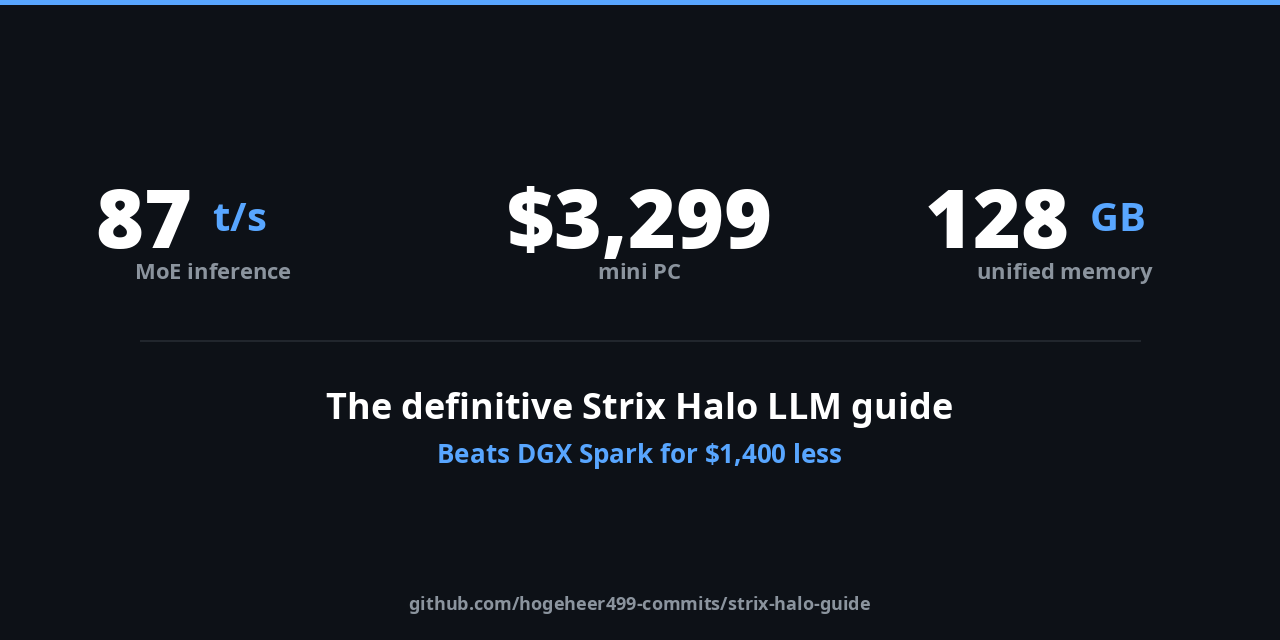
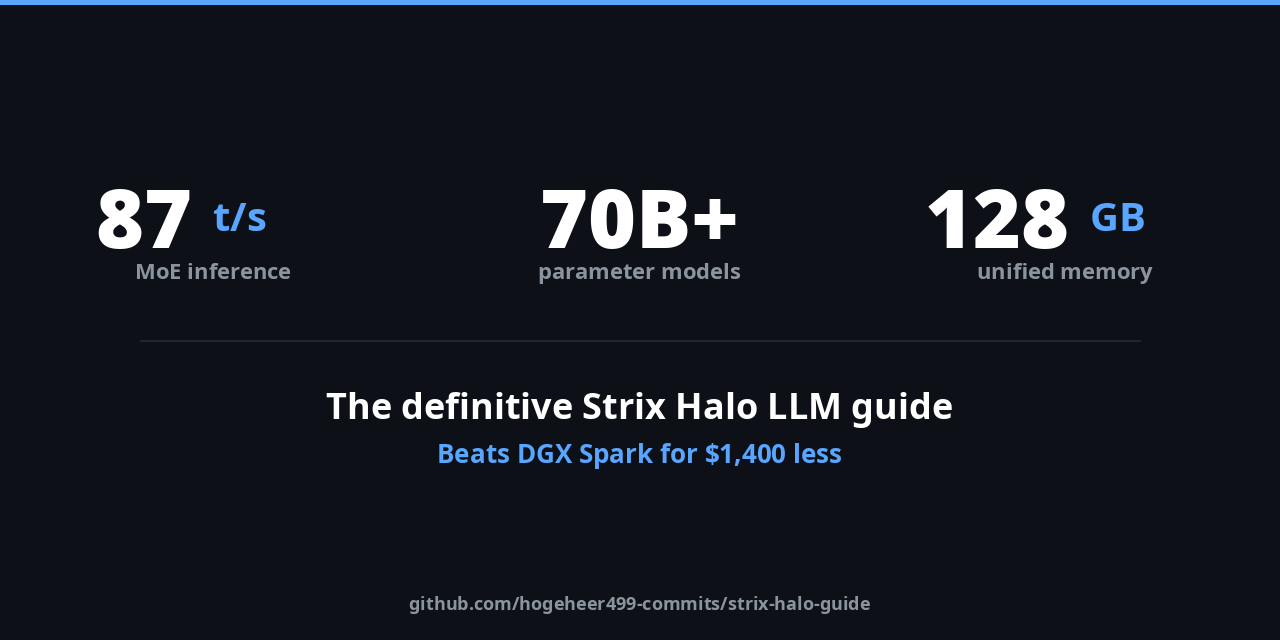
Social preview: replace price with 70B+ models

Changed region(s): [[0.375, 0.2812, 0.625, 0.4375]]

diff --git a/generate_preview.py b/generate_preview.py
@@ -20,7 +20,7 @@ draw.rectangle([0, 0, W, 4], fill=ACCENT)
 # Three big numbers side by side
 stats = [
     ("87", "t/s", "MoE inference"),
-    ("$3,299", "", "mini PC"),
+    ("70B+", "", "parameter models"),
     ("128", "GB", "unified memory"),
 ]
 
